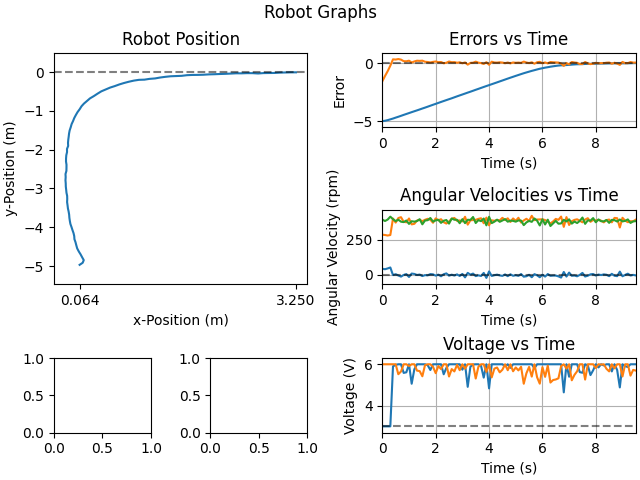
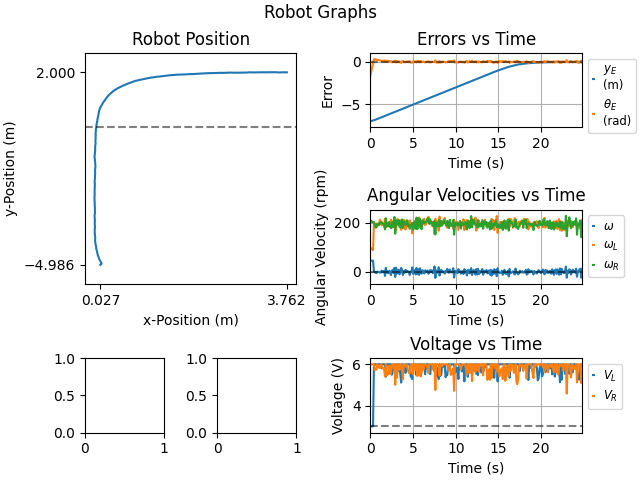
Removed bot omega from the plot. Bot omega is not explicitly needed for the project, but it makes the graph look kinda bad.

diff --git a/plots.py b/plots.py
@@ -20,7 +20,11 @@ class Plot:
     VLEFT     : list[float]
     VRIGHT    : list[float]
 
-    def _BuildAxis(self, Axes, title, ylabel):
+    # Control
+    SetPoint  : float
+
+
+    def _BuildAxis(self, Axes, title, ylabel, labels = ''):
         Y = 0 if ylabel != "Voltage (V)" else 3
         Axes.axhline(
                 y = Y,
@@ -33,6 +37,14 @@ class Plot:
         Axes.set_title(title)
         Axes.grid(True)
         Axes.margins(x = 0, y = 0.1)
+        #Axes.legend(labels) 
+        if labels != '':
+            Axes.legend(
+                    labels, 
+                    bbox_to_anchor = (1, 1),
+                    fontsize = 'small',
+                    handlelength = 0.1,
+                    )
 
     def Build(self):
         fig = plt.figure(layout = "constrained")
@@ -62,16 +74,51 @@ class Plot:
                 )
 
         # Building the Axes
-        self._BuildAxis(Err, "Errors vs Time", "Error")
-        self._BuildAxis(Ome, "Angular Velocities vs Time", "Angular Velocity (rpm)")
-        self._BuildAxis(Vol, "Voltage vs Time", "Voltage (V)")
-        self._BuildAxis(Map, "Robot Position", "y-Position (m)")
+        ErrorLabels = [
+                '$y_{E}$\n(m)',
+                '$\\theta_{E}$\n(rad)'
+                ]
+        self._BuildAxis(
+                        Err, 
+                        "Errors vs Time",
+                        "Error",
+                        ErrorLabels
+                        )
+
+        OmegaLabels = [
+                r'$\omega$',
+                r'$\omega_{L}$',
+                r'$\omega_{R}$'
+                ]
+        self._BuildAxis(
+                        Ome,
+                        "Angular Velocities vs Time",
+                        "Angular Velocity (rpm)",
+                        OmegaLabels
+                        )
+
+        VoltLabels = [
+                r'$V_{L}$',
+                r'$V_{R}$'
+                ]
+        self._BuildAxis(
+                        Vol,
+                        "Voltage vs Time",
+                        "Voltage (V)",
+                        VoltLabels
+                        )
+        self._BuildAxis(
+                        Map,
+                        "Robot Position",
+                        "y-Position (m)",
+                        )
 
         # Building Map
         Map.set_xlabel("x-Position (m)")
         Map.grid(False)
         Map.margins(x = 0.05)
         Map.set_xticks([self.X[0], self.X[-1]])
+        Map.set_yticks([self.Y[0], self.SetPoint])
 
         plt.show()
         plt.savefig('Robot Data.png')

diff --git a/simulator.py b/simulator.py
@@ -29,8 +29,8 @@ InitialPosition = {
     }
 
 SensorData = {
-    'Mean': 20,# rad/s
-    'Dev': 5 # percentage
+    'Mean': 0,# rad/s
+    'Dev': 5  # Multiplier
     }
 
 PIDConstants = {
@@ -40,7 +40,7 @@ PIDConstants = {
     }
 
 SetVoltage = 6
-SetPoint = 0
+SetPoint = 2
 
 RobotMotion = Kinematics(SampleTime, **RobotData, **InitialPosition)
 
@@ -151,6 +151,6 @@ print(
     f"{i*SampleTime} seconds. \n"
     )
 
-Plot = Plot(t, X, Y, U, yE, uE, OMEGA, OMEGALEFT, OMEGARIGHT, VLEFT, VRIGHT)
+Plot = Plot(t, X, Y, U, yE, uE, OMEGA, OMEGALEFT, OMEGARIGHT, VLEFT, VRIGHT, SetPoint)
 Plot.Build()
 
